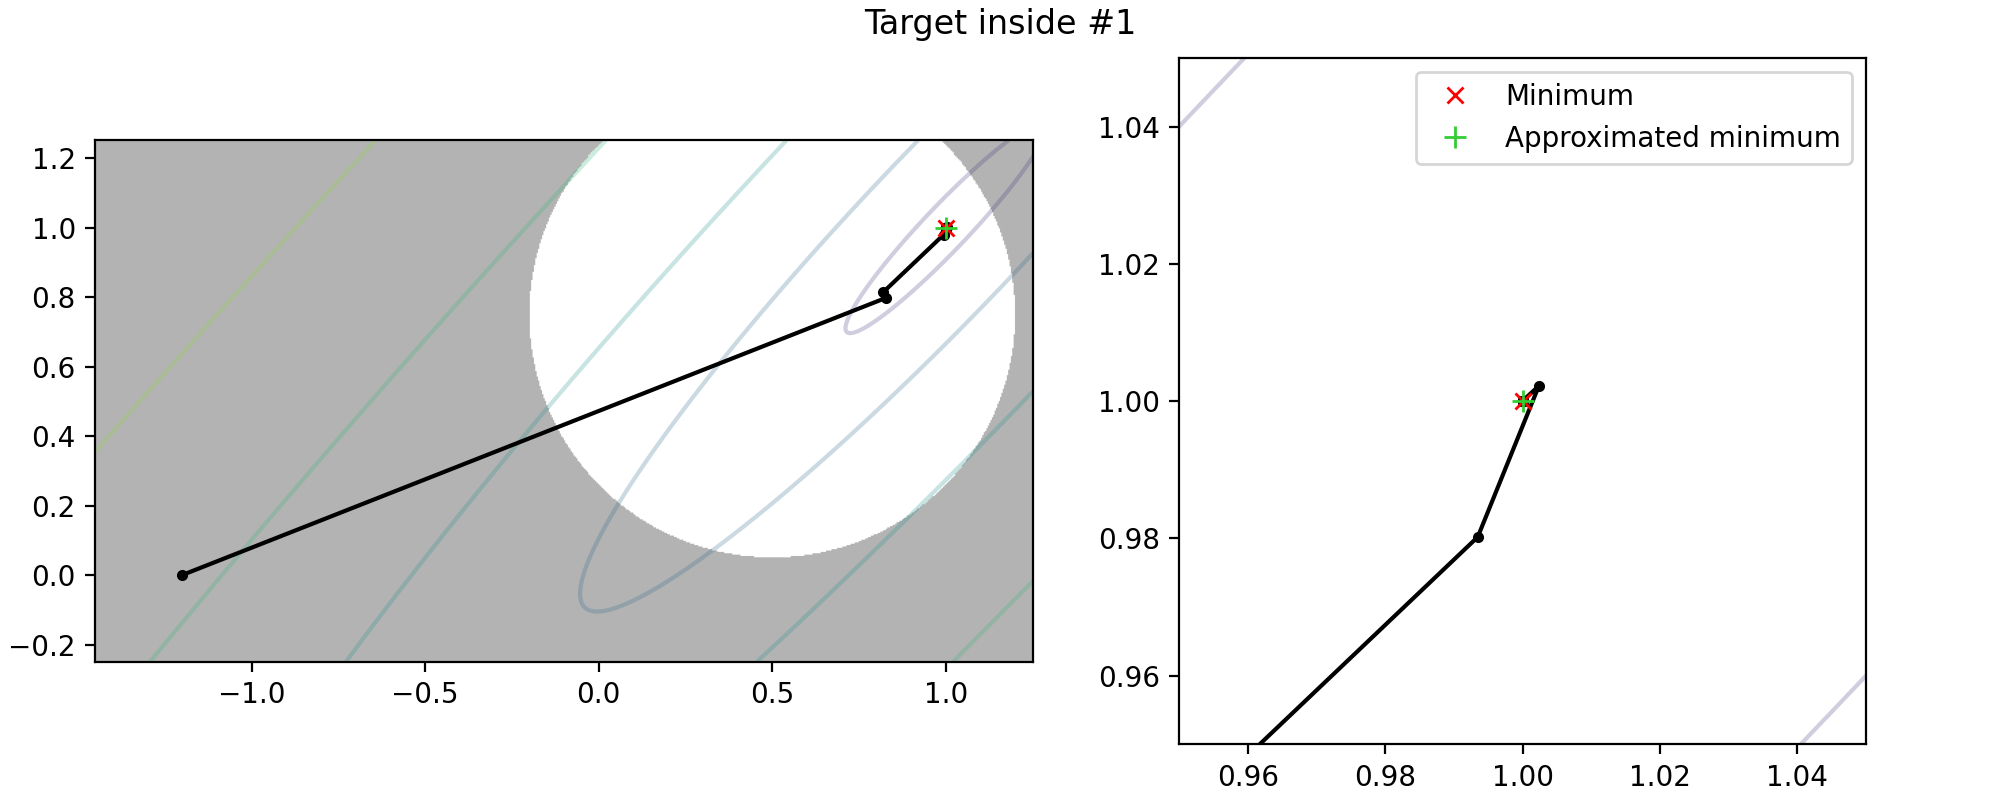
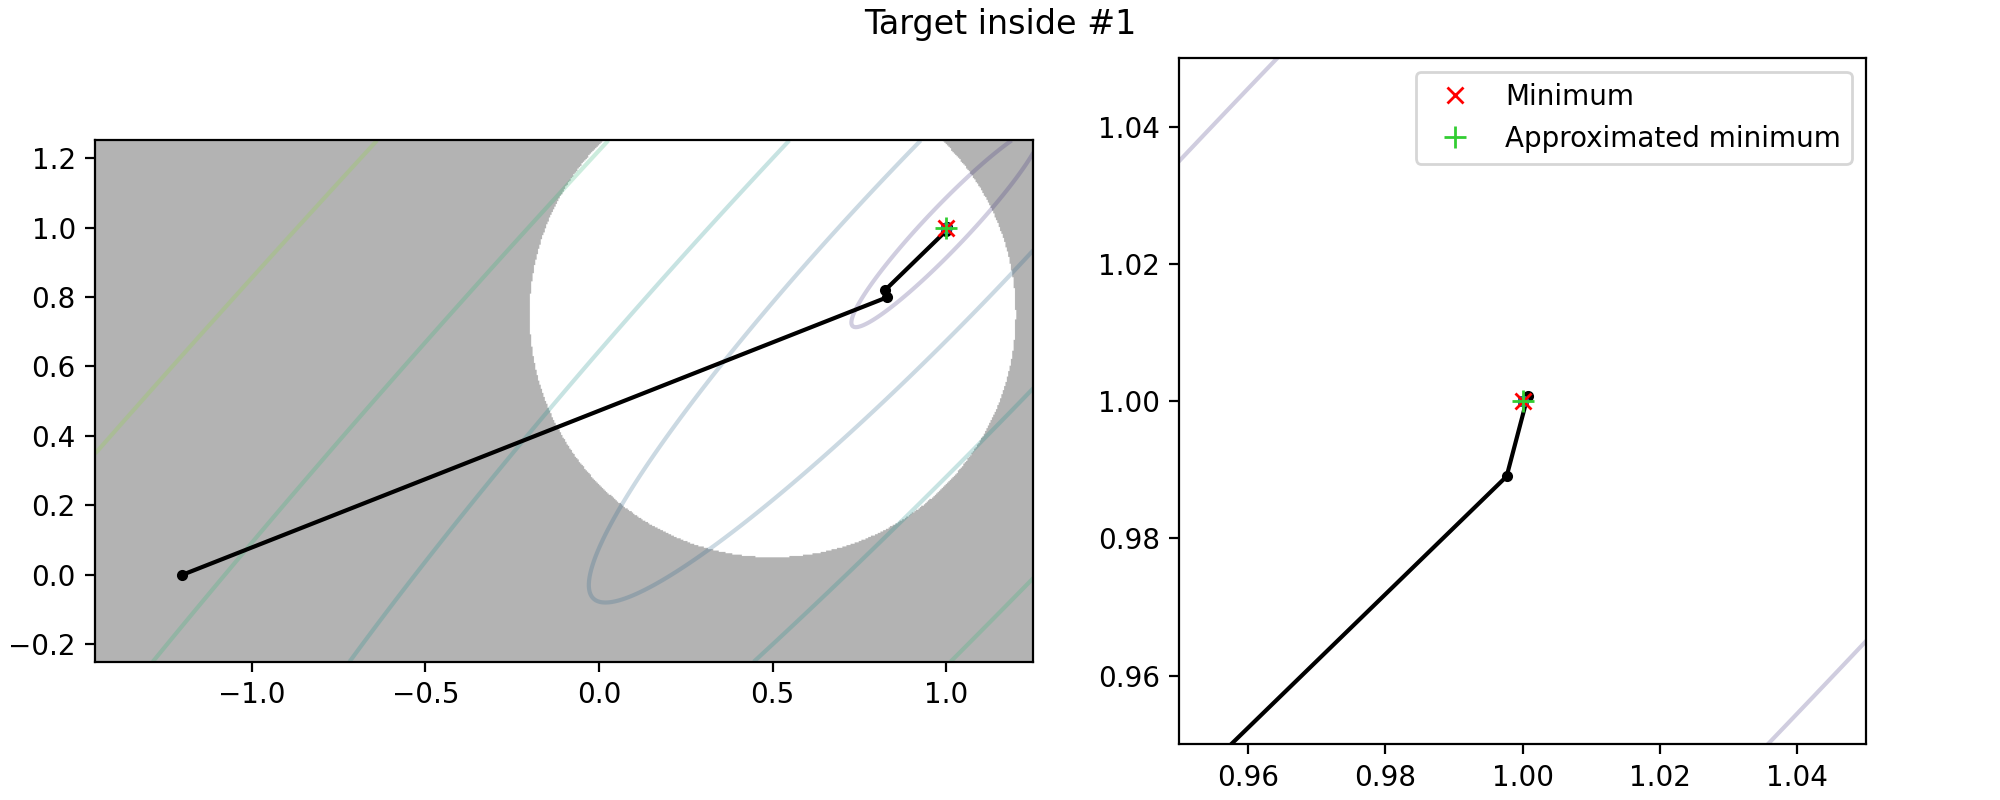
Improve research with constraints

diff --git a/research/with_constraints.py b/research/with_constraints.py
@@ -7,7 +7,8 @@ from methods.derivation_methods import DerivationMethod
 from methods.gradient_methods import fletcher_reeves, Modification, TerminationCriterion
 from methods.interval_methods import golden_section, dsk_powell
 from methods.penalty_methods import barrier_search, barrier_circle, barrier_line, barrier_ellipse
-from research.utils import image_search_path, image_call_and_deviation, table_call_and_deviation
+from research.utils import image_search_path, image_call_and_deviation, table_call_and_deviation, \
+    table_penalty_method_iters
 from output import images as img
 
 
@@ -20,7 +21,7 @@ def research(func: Callable, x0: np.array, base_params: dict, real_target_x: np.
         'search_method': fletcher_reeves,
         'search_params': deepcopy(base_params),
         'r0': 1,
-        'r_mult': 2,
+        'r_mult': 10,
         'accuracy': 1e-4,
         'max_iter': 12
     }
@@ -28,7 +29,7 @@ def research(func: Callable, x0: np.array, base_params: dict, real_target_x: np.
     params = part1_target_inside(func, x0, params, real_target_x, real_target_f)
 
     params = part2_target_outside(func, x0, params, real_target_x, real_target_f)
-    
+
     params = part3_target_outside_concave(func, x0, params, real_target_x, real_target_f)
 
     return params
@@ -44,18 +45,18 @@ def part1_target_inside(func, x0, base_params, real_target_x, real_target_f):
         'Target inside #1',
         SUB_DIR, 'inside1'
     )
+    table_penalty_method_iters(func, x0, SEARCH_METHOD, params, SUB_DIR, 'inside1')
 
-    params['search_params']['lambda_accuracy'] = 1e-4
+    x0_new = np.array((75, 25), dtype=np.float64)
     image_search_path(
-        func, np.array((75, 25), dtype=np.float64), SEARCH_METHOD, params,
+        func, x0_new, SEARCH_METHOD, params,
         real_target_x, real_target_f,
         'Target inside #2',
         SUB_DIR, 'inside2',
         levels_n=21, pixels_per_unit=32,
         pad_big_x=5, pad_big_y=10, pad_small_x=1, pad_small_y=1,
     )
-
-    params['search_params']['lambda_accuracy'] = 1e-5
+    table_penalty_method_iters(func, x0_new, SEARCH_METHOD, params, SUB_DIR, 'inside2')
     
     return params
 
@@ -73,30 +74,22 @@ def part2_target_outside(func, x0, base_params, real_target_x, real_target_f):
         func, x0,
         SEARCH_METHOD, params,
         real_target_x, real_target_f,
-        'Target outside #1.1',
-        SUB_DIR, 'outside1_1',
+        'Target outside #1',
+        SUB_DIR, 'outside1',
         constrained_target_x=target_wolfram_x, constrained_target_f=target_wolfram_f,
     )
+    table_penalty_method_iters(func, x0, SEARCH_METHOD, params, SUB_DIR, 'outside1')
 
-    params['search_params']['accuracy'] = 1e-5
-
+    x0_new = np.array((2, 1), dtype=np.float64)
     image_search_path(
-        func, x0,
-        SEARCH_METHOD, params,
-        real_target_x, real_target_f,
-        'Target outside #1.2',
-        SUB_DIR, 'outside1_2',
-        constrained_target_x=target_wolfram_x, constrained_target_f=target_wolfram_f,
-    )
-
-    image_search_path(
-        func, np.array((2, 1), dtype=np.float64),
+        func, x0_new,
         SEARCH_METHOD, params,
         real_target_x, real_target_f,
         'Target outside #2',
         SUB_DIR, 'outside2',
         constrained_target_x=target_wolfram_x, constrained_target_f=target_wolfram_f,
     )
+    table_penalty_method_iters(func, x0_new, SEARCH_METHOD, params, SUB_DIR, 'outside2')
     
     return params
 
@@ -117,29 +110,23 @@ def part3_target_outside_concave(func, x0, base_params, real_target_x, real_targ
         func, x0,
         SEARCH_METHOD, params,
         real_target_x, real_target_f,
-        'Target outside, concave region #1',
+        'Target outside, concave region',
         SUB_DIR, 'concave1',
         constrained_target_x=target_wolfram_x, constrained_target_f=target_wolfram_f
     )
+    table_penalty_method_iters(func, x0, SEARCH_METHOD, params, SUB_DIR, 'concave1')
 
-
-    # === CHANGE REGION ===
-    params['constraints'] = [
-        barrier_circle(0, 0, 1, False),
-        barrier_ellipse(0.5, -0.5, 0.6, 1.4, 45, True)
-    ]
-
-    target_wolfram_x = np.array((0.714146, 0.699997))
-    target_wolfram_f = func(*target_wolfram_x)
-
+    x0_new = np.array((1.25, 0.8), dtype=np.float64)
     image_search_path(
-        func, np.array((-0.6, -0.6), dtype=np.float64),
+        func, x0_new,
         SEARCH_METHOD, params,
         real_target_x, real_target_f,
-        'Target outside, concave region #2',
+        'Target outside, concave region (another start point)',
         SUB_DIR, 'concave2',
-        constrained_target_x=target_wolfram_x, constrained_target_f=target_wolfram_f
+        constrained_target_x=target_wolfram_x, constrained_target_f=target_wolfram_f,
+        pad_big_x=0.5, pad_big_y=0.5
     )
+    table_penalty_method_iters(func, x0, SEARCH_METHOD, params, SUB_DIR, 'concave2')
 
 
     return params

diff --git a/output/images.py b/output/images.py
@@ -4,7 +4,7 @@ import numpy as np
 import matplotlib.pyplot as plt
 from matplotlib.lines import Line2D
 from matplotlib import cm
-
+from matplotlib.rcsetup import cycler
 
 DPI = 200
 IMAGES_DIR = 'images'
@@ -16,17 +16,18 @@ def search_path(
         pad_big_x=0.25, pad_big_y=0.25, pad_small_x=0.05, pad_small_y=0.05,
         constraints=None, constrained_target=None
 ):
-    path_xs = [p[0] for p in path_points]
-    path_ys = [p[1] for p in path_points]
-
     # Calculate plot limits
-    big_xlim = (min(*path_xs, real_target[0]) - pad_big_x, max(*path_xs, real_target[0]) + pad_big_x)
-    big_ylim = (min(*path_ys, real_target[1]) - pad_big_y, max(*path_ys, real_target[0]) + pad_big_y)
+    path_min_x = min([min([p[0] for p in r]) for r in path_points])
+    path_max_x = max([max([p[0] for p in r]) for r in path_points])
+    path_min_y = min([min([p[1] for p in r]) for r in path_points])
+    path_max_y = max([max([p[1] for p in r]) for r in path_points])
+    big_xlim = (min(path_min_x, real_target[0]) - pad_big_x, max(path_max_x, real_target[0]) + pad_big_x)
+    big_ylim = (min(path_min_y, real_target[1]) - pad_big_y, max(path_max_y, real_target[0]) + pad_big_y)
     if constrained_target is not None:
         big_xlim = (min(big_xlim[0], constrained_target[0] - pad_big_x), max(big_xlim[1], constrained_target[0] + pad_big_x))
         big_ylim = (min(big_ylim[0], constrained_target[1] - pad_big_y), max(big_ylim[1], constrained_target[1] + pad_big_y))
 
-    approx_target = path_points[-1]
+    approx_target = path_points[-1][-1]
     small_xlim=(approx_target[0] - pad_small_x, approx_target[0] + pad_small_x)
     small_ylim=(approx_target[1] - pad_small_y, approx_target[1] + pad_small_y)
 
@@ -38,6 +39,8 @@ def search_path(
     levels = np.linspace(np.min(z), np.max(z), levels_n)
 
     # Plot
+    prop_cycle = cycler(color=['k', 'tab:blue', 'tab:orange', 'tab:green', 'tab:red'])
+    plt.rc('axes', prop_cycle=prop_cycle)
     fig, ax = plt.subplots(1, 2, figsize=(10, 4), constrained_layout=True)
 
     for i in range(2):
@@ -52,7 +55,10 @@ def search_path(
             )
 
         # Search path
-        ax[i].plot(path_xs, path_ys, marker='.', color='k')
+        for r in path_points:
+            path_xs = [p[0] for p in r]
+            path_ys = [p[1] for p in r]
+            ax[i].plot(path_xs, path_ys, marker='.')
 
         # Targets
         ax[i].plot(*real_target, 'rx')

diff --git a/research/utils.py b/research/utils.py
@@ -32,8 +32,10 @@ def image_search_path(
 
     constraints = search_params.get('constraints')
 
+    separated_output = separate_output(output)
+
     img.search_path(
-        func, real_target_x, [r['x'] for r in output], title, subdir, filename,
+        func, real_target_x, [[r['x'] for r in i] for i in separated_output], title, subdir, filename,
         levels_n=levels_n, pixels_per_unit=pixels_per_unit,
         pad_big_x=pad_big_x, pad_big_y=pad_big_y, pad_small_x=pad_small_x, pad_small_y=pad_small_y,
         constraints=constraints, constrained_target=constrained_target_x
@@ -123,8 +125,41 @@ def _smart_value_to_str(v):
     return str(v)
 
 
+def table_penalty_method_iters(func, x0, search_method, search_params, subdir, filename):
+    output = []
+
+    func.calls = 0
+    search_method(func, x0, **search_params, output_receiver=lambda **kwargs: output.append(kwargs))
+
+    tbl.penalty_method_iters(separate_output(output), subdir, filename)
+
+    # Additional console log
+    message = 'Calculated table (%s). Penalty method iterations.' % filename
+    print(message)
+
+
 
 # === OTHER ===
+def separate_output(output):
+    separated_output = []
+
+    tmp = []
+    for row in output:
+        if len(tmp) == 0:
+            tmp.append(row)
+            continue
+
+        if row['iter_n'] == 0:
+            separated_output.append(tmp)
+            tmp = []
+
+        tmp.append(row)
+
+    separated_output.append(tmp)
+
+    return separated_output
+
+
 def feed_values_2d(
         func, x0, search_method, search_params,
         change_param1, values1, change_param2, values2,

diff --git a/main.py b/main.py
@@ -30,19 +30,21 @@ def main():
 
     params = no_constraints.research(root_func, X0, params, REAL_TARGET_X, REAL_TARGET_F)
 
-    # params = {
-    #     'derivation_method': DerivationMethod.SYM_DIFF, 'derivation_h': 0.1,
-    #     'lambda_method': dsk_powell, 'delta_lambda': 0.31, 'lambda_accuracy': 1e-5,
-    #     'modification': Modification.POLAK_RIBIERE,
-    #     'termination_criterion': TerminationCriterion.X_AND_F_CHANGE, 'accuracy': 1e-8,
-    #     'max_iter': 10000
-    # }
+    print(params)
 
     output = []
     root_func.calls = 0
     x, f = fletcher_reeves(root_func, X0, **params, output_receiver=lambda **kwargs: output.append(kwargs))
     print('NO CONSTRAINTS BEST RESULT:')
-    print('X: %s, F: %.8f, iterations: %i, calls: %i\n' % (x, f, output[-1]['iter_n'], root_func.calls))
+    print('X: (%.8f; %.8f), F: %.8f, iterations: %i, calls: %i\n' % (x[0], x[1], f, output[-1]['iter_n'], root_func.calls))
+
+    params = {
+        'derivation_method': DerivationMethod.SYM_DIFF, 'derivation_h': 0.1,
+        'lambda_method': dsk_powell, 'delta_lambda': 0.31, 'lambda_accuracy': 1e-4,
+        'modification': Modification.POLAK_RIBIERE,
+        'termination_criterion': TerminationCriterion.X_AND_F_CHANGE, 'accuracy': 1e-4,
+        'max_iter': 10000
+    }
 
     with_constraints.research(root_func, X0, params, REAL_TARGET_X, REAL_TARGET_F)
 

diff --git a/output/tables.py b/output/tables.py
@@ -24,3 +24,25 @@ def calls_and_deviation(results, values1, values2, subdir, filename):
             devs =  (r['f_deviation'] for r in res)
             vs = ('%i\t%.2E' % pair for pair in zip(calls, devs))
             f.write('%s\t%s\n' % (v, '\t'.join(vs)))
+
+
+def penalty_method_iters(results_per_iter, subdir, filename):
+    dir_path = os.path.join(TABLES_DIR, subdir)
+    if not os.path.exists(dir_path):
+        os.makedirs(dir_path)
+
+    with open(os.path.join(dir_path, filename + '.csv'), 'w') as f:
+        # Header
+        f.write('R\tx0\tx*\tf(x*)\tcalls\n')
+
+        # Rows
+        for r in results_per_iter:
+            last_iter = r[-1]
+            # Values
+            f.write('%i\t(%.6f; %.6f)\t(%.6f; %.6f)\t%.6f\t%i\n' % (
+                last_iter['constraint_r'],
+                r[0]['x'][0], r[0]['x'][1],
+                last_iter['x'][0], last_iter['x'][1],
+                last_iter['f'],
+                last_iter['calls']
+            ))

diff --git a/methods/penalty_methods.py b/methods/penalty_methods.py
@@ -73,6 +73,8 @@ def barrier_search(
 
     iter_n = 0
 
+    prev_calls = 0  # quick fix
+
     while True:
         p_func = outer_barrier(func, r, *constraints)
 
@@ -83,8 +85,10 @@ def barrier_search(
             output_receiver=lambda **kwargs: output_tmp.append(kwargs)
         )
 
-        for row in output_tmp:
-            row['constraint_r'] = r
+        output_tmp[-1]['constraint_r'] = r
+
+        output_tmp[-1]['calls'] = func.calls - prev_calls  # also quick fix
+        prev_calls = func.calls
 
         output.extend(output_tmp)
 

diff --git a/methods/gradient_methods.py b/methods/gradient_methods.py
@@ -95,7 +95,7 @@ def fletcher_reeves(
             terminate = True
 
         if terminate:
-            output_receiver(iter_n=iter_n, x=x1, f=f1)
+            output_receiver(iter_n=iter_n+1, x=x1, f=f1)
             return x1, f1
 
         s1 = -nabla1 + _fletcher_reeves_w(nabla0, nabla1, modification) * s0
